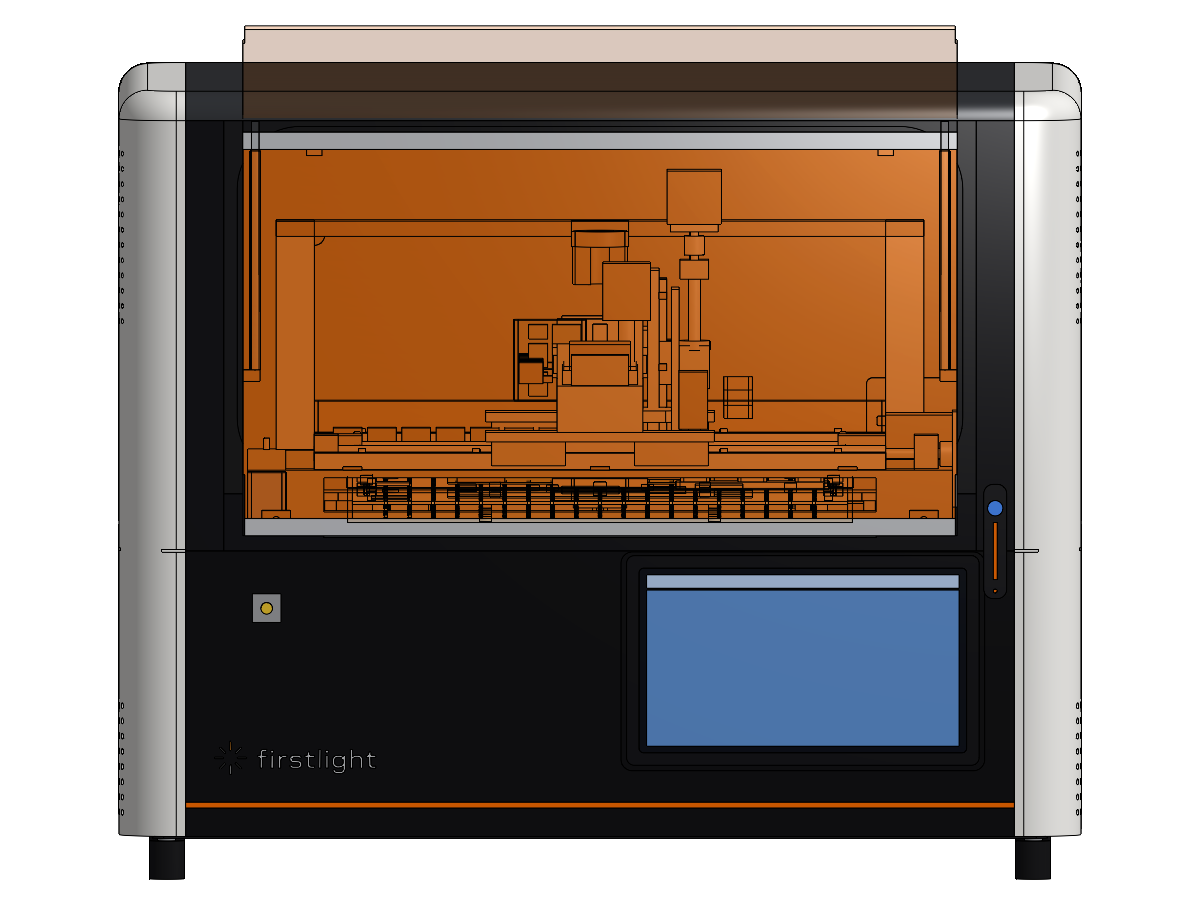
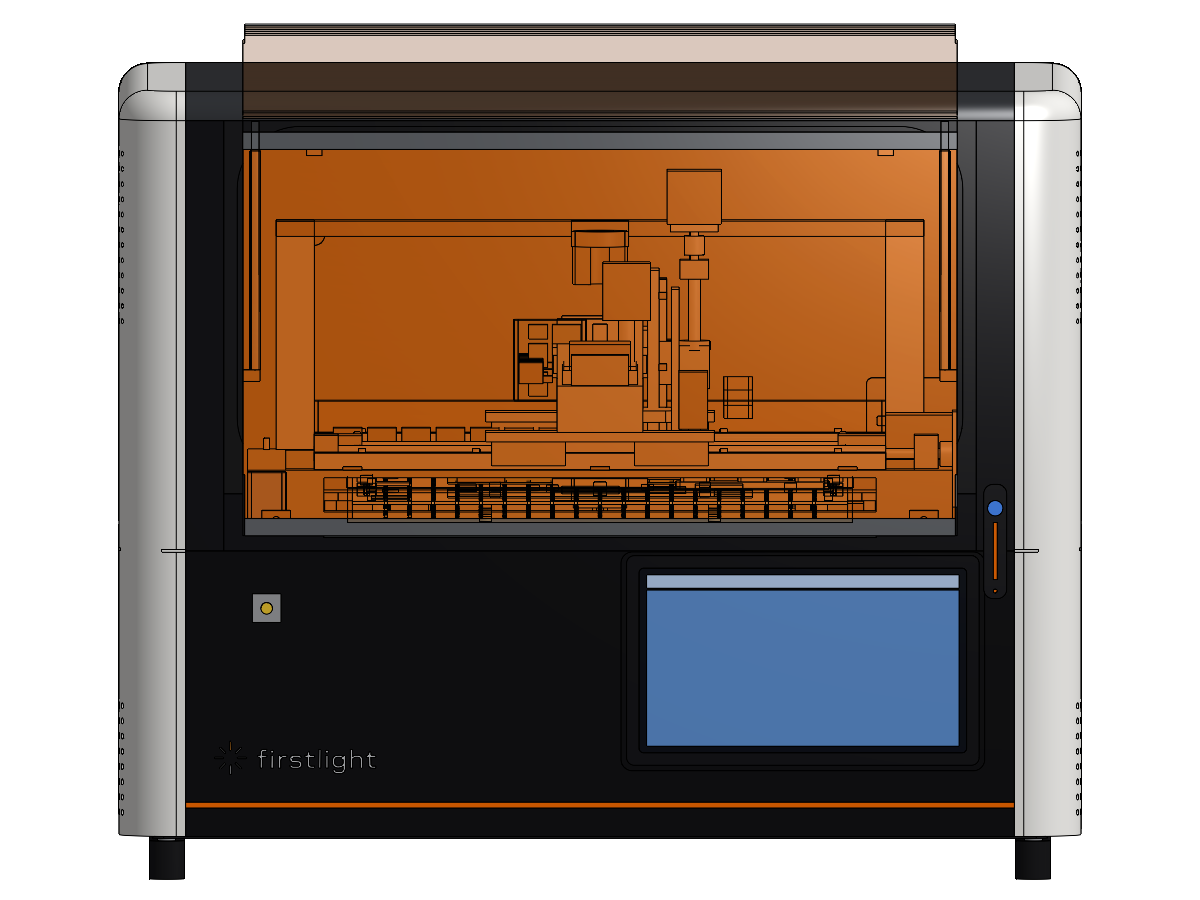
Space-grey rails, open-state rail ghosts, composite tree-position fix
- Door edge rails re-finished space grey anodize (quieter on the black
  fascia, ties to the graphite top); RFQ finish updated; ghost copies
  match at opacity 70.
- 4 open-position rail ghosts (makeCopy rotation about the hinge axis,
  centers verified against computed 105deg landing points) so the OPEN
  reference shows the complete door.
- Composite membership bug root-caused: compositePart features resolve
  queries at their TREE POSITION - the mid-tree CFG composites silently
  pruned ids of later-created bodies (updates posted OK, didn't stick;
  caught by read-back verification at user prompting). Both composites
  deleted and recreated at the END of the tree; verified zero-missing
  (OPEN 42 members, CLOSED 45). Lesson in README.

Changed region(s): [[0.185, 0.1244, 0.8017, 0.1867], [0.2158, 0.0, 0.8017, 0.0622], [0.185, 0.56, 0.8017, 0.6222]]

diff --git a/cad/electronics-bringup-station/production-readiness-report.md b/cad/electronics-bringup-station/production-readiness-report.md
@@ -407,6 +407,20 @@ Version **PROD-PASS-12** (`826ead9fc5151eaf9f447459`), STEP
   equipotential bonding, and the monitor makes a missing earth
   impossible to ignore.
 
+### 3q addendum: space-grey rails, open-state rails, composite fix
+
+- Rails re-finished **space grey anodize** (100,103,108) — quieter
+  against the black fascia, ties to the graphite top (RFQ updated).
+- **Open-state ghost rails** (4, makeCopy-rotated 105° about the hinge
+  axis) added so the OPEN reference shows the complete door.
+- **Composite gotcha found**: features resolve their queries at their
+  position in the regeneration order — the CFG composites sat mid-tree
+  (created before the rails), so membership updates referencing
+  later-created bodies were silently pruned. Both composites were
+  deleted and recreated at the END of the tree; membership verified
+  zero-missing: OPEN 42, CLOSED 45. Rule: keep configuration composites
+  last in the tree, recreate after adding member bodies.
+
 ## 4. Remaining work to true production (not CAD-scriptable, tracked)
 
 1. ~~Motion Check assembly~~ **DONE (same session)**: all 14 bodies

diff --git a/tools/onshape/README.md b/tools/onshape/README.md
@@ -70,6 +70,11 @@ quota. The original document under the free account is a frozen archive.
   translation (t = −R·target; assembly targets need the gauge offset
   added). Glass drops to opacity 110 for filming, restored after.
   Resumable (skips existing frames); encode via ffmpeg.
+- CONFIG COMPOSITES: compositePart features resolve member queries at
+  their TREE POSITION — a mid-tree composite silently prunes ids of
+  bodies created after it (updates post OK but do not stick). Keep the
+  CFG state composites LAST in the tree; to add members, delete and
+  recreate them at the end with fresh ids, then verify membership.
 - `phase_h_esd_door.py` — ESD kit (chem-film fixture surfaces, drawer
   ground braid, wrist-strap jack, ionizer bar, ESD chains), powered
   door-exit drawer (fascia parts deleted; amber door EXTENDED down via
